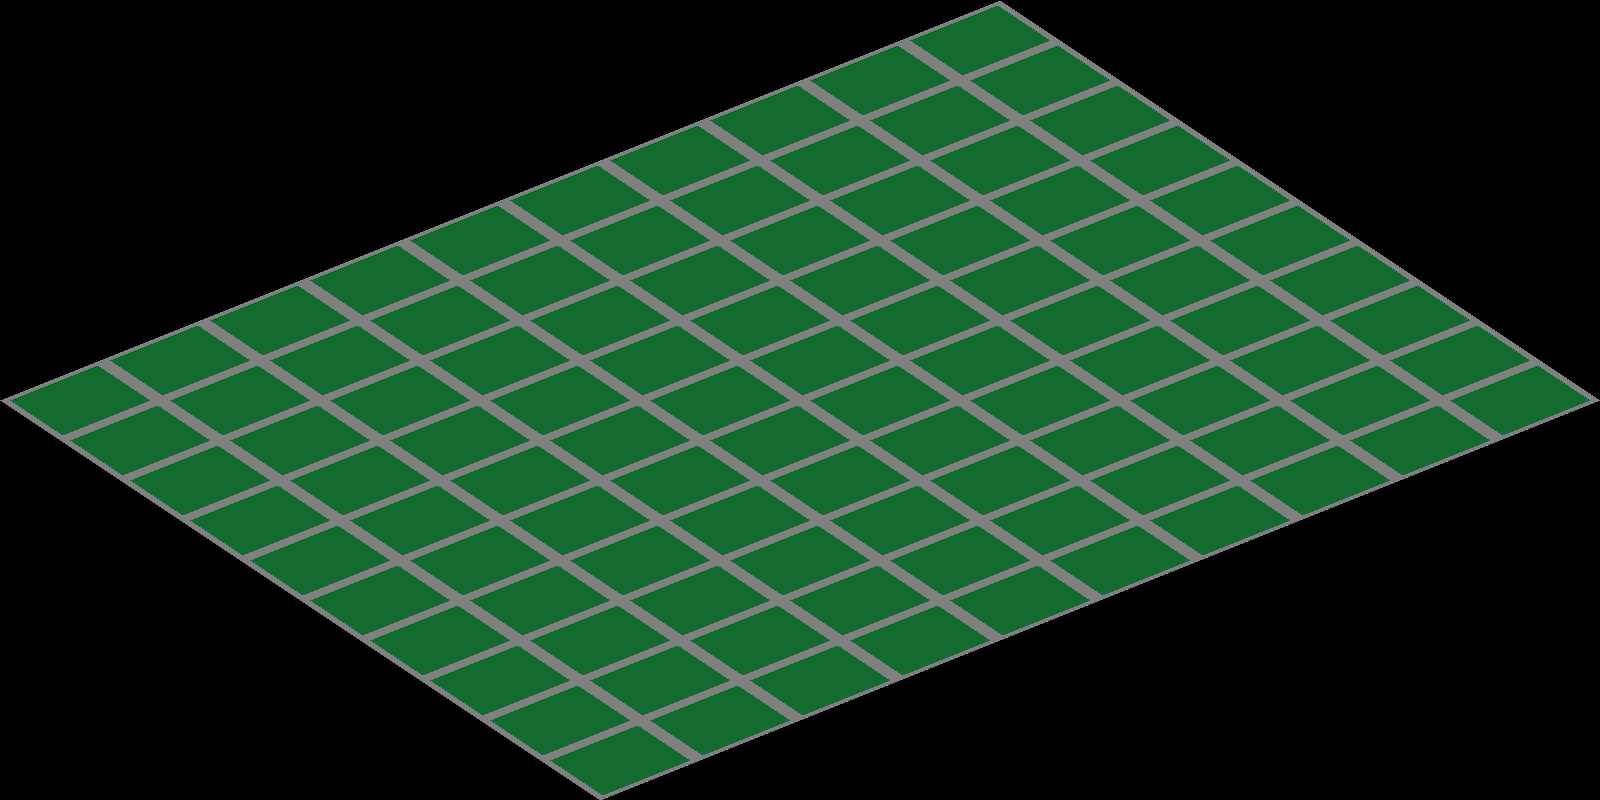
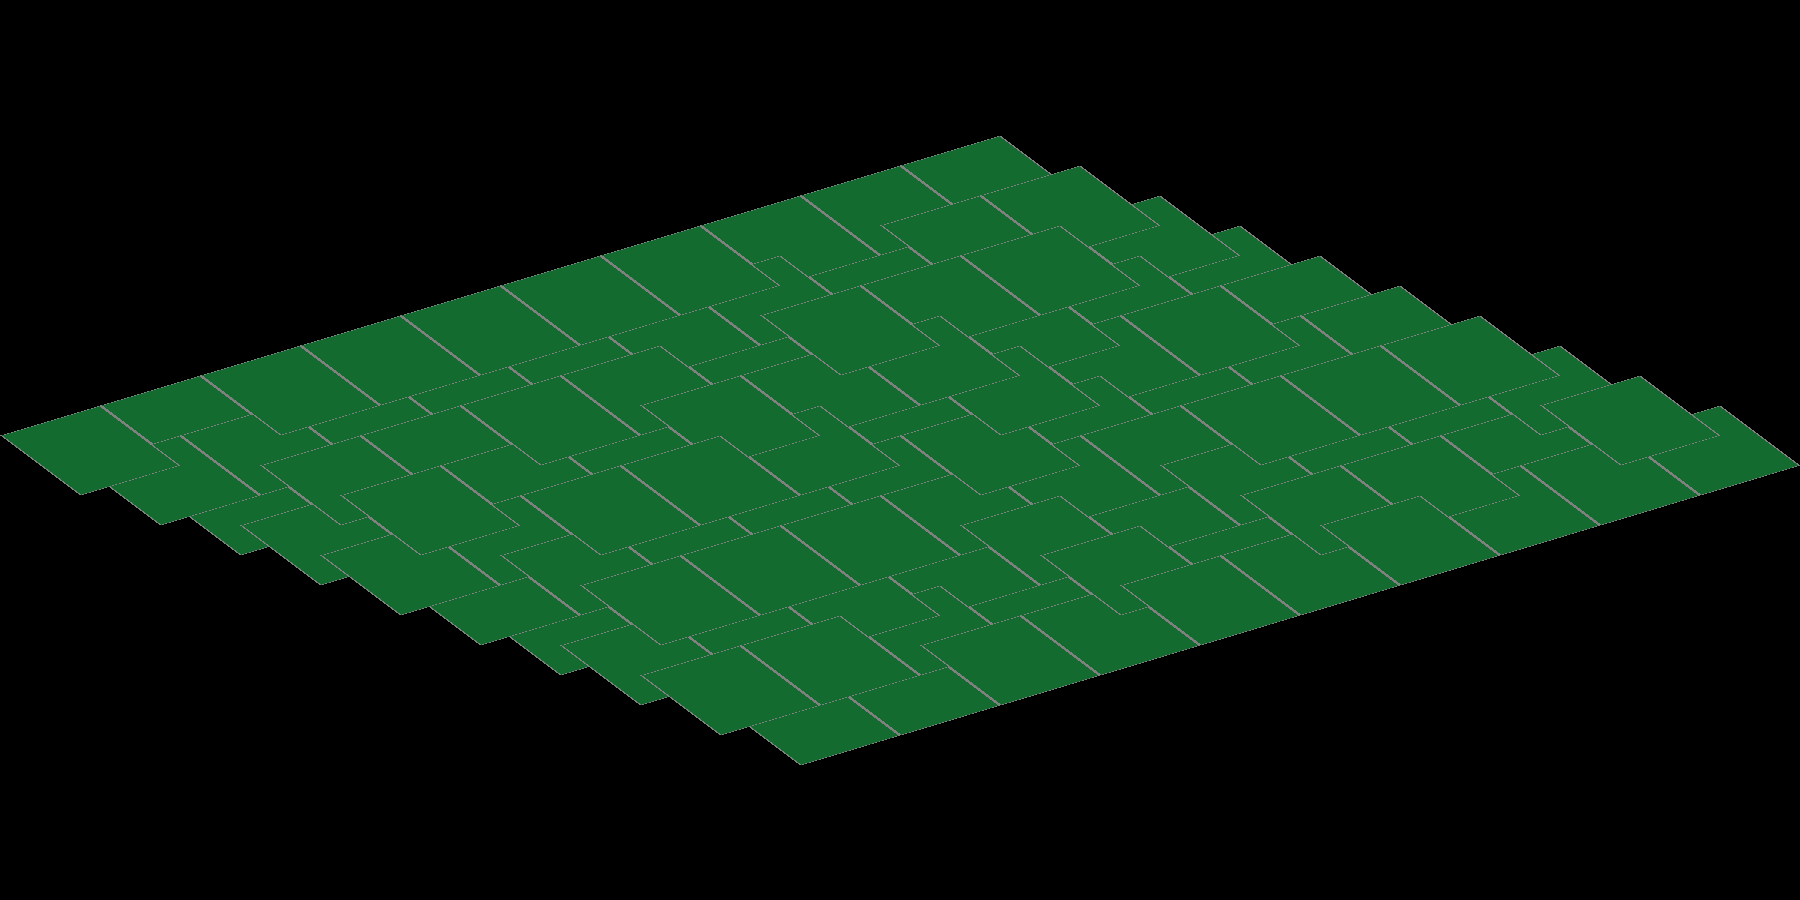
19:38 17.07.2021

Changed region(s): [[0.0312, 0.0, 0.9688, 1.0], [0.9688, 0.4688, 1.0, 0.5312], [0.0, 0.4688, 0.0312, 0.5312]]

diff --git a/src/MapGenerator/Picture/PictureCreator.java b/src/MapGenerator/Picture/PictureCreator.java
@@ -69,21 +69,27 @@ public class PictureCreator {
 
         Graphics2D graphics2D = (Graphics2D) mapPicture.getGraphics();
 
-        int x = image.getX() * mapData.getSizeUnitW()*5 + image.getY()*mapData.getSizeUnitW()*3;
-        int y = mapPicture.getHeight()/2 + image.getY() * mapData.getSizeUnitH()*2 - image.getX()*mapData.getSizeUnitH()*2 - addedImage.getHeight(null)/2;
+//        int x = (int) (image.getX() * mapData.getSizeUnitW()*(mapData.getCellW()/2 + Configurations.curvatureX) + image.getY()*mapData.getSizeUnitW()*(mapData.getCellW()/2 - Configurations.curvatureX));
+//        int y = mapPicture.getHeight()/2 + image.getY() * mapData.getSizeUnitH()*3 - image.getX()*mapData.getSizeUnitH()*3 - addedImage.getHeight(null)/2;
+
+
         graphics2D.drawImage(addedImage, x, y, null);
     }
 
     private BufferedImage createCellShape(BufferedImage addedPicture, MapData mapData){
         java.awt.Image image = null;
-        if(Configurations.mapFormatX/Configurations.mapFormatY == 2) {
 
-            if(Configurations.drawBorders){
-                createBorders(addedPicture, mapData);
-            }
-
-            createMaskZones(addedPicture, mapData);
+        if(Configurations.drawBorders){
+            createBorders(addedPicture, mapData);
         }
+
+        createMaskZones(addedPicture, mapData);
+
+//        try {
+//            ImageIO.write(addedPicture, "png", new File("ggg.png"));
+//        } catch (IOException e) {
+//            e.printStackTrace();
+//        }
 
         return addedPicture;
     }
@@ -93,14 +99,14 @@ public class PictureCreator {
 
         graphics2D.setColor(Configurations.bordersColor);
 
-        graphics2D.fill(new Polygon(new int[]{0, mapData.getPixSizeCellW()/Configurations.mapFormatX*5, mapData.getPixSizeCellW()/Configurations.mapFormatX*5 + Configurations.borderSize, 0 + Configurations.borderSize},
-                new int[]{addedPicture.getHeight() / 2 , 0, 0, addedPicture.getHeight() / 2}, 4));
-        graphics2D.fill(new Polygon(new int[]{0, mapData.getPixSizeCellW()/Configurations.mapFormatX*3, mapData.getPixSizeCellW()/Configurations.mapFormatX*3 + Configurations.borderSize, 0 + Configurations.borderSize},
-                new int[]{addedPicture.getHeight() / 2 , addedPicture.getHeight(), addedPicture.getHeight(), addedPicture.getHeight() / 2}, 4));
-        graphics2D.fill(new Polygon(new int[]{mapData.getPixSizeCellW()/Configurations.mapFormatX*5 - Configurations.borderSize, mapData.getPixSizeCellW()/Configurations.mapFormatX*5, addedPicture.getWidth(), addedPicture.getWidth()-Configurations.borderSize},
-                new int[]{0 , 0, addedPicture.getHeight()/2, addedPicture.getHeight() / 2}, 4));
-        graphics2D.fill(new Polygon(new int[]{mapData.getPixSizeCellW()/Configurations.mapFormatX*3 - Configurations.borderSize, mapData.getPixSizeCellW()/Configurations.mapFormatX*3, addedPicture.getWidth(), addedPicture.getWidth()-Configurations.borderSize},
-                new int[]{addedPicture.getHeight() , addedPicture.getHeight(), addedPicture.getHeight()/2, addedPicture.getHeight() / 2}, 4));
+        graphics2D.fill(new Polygon(new int[]{0, (int) (mapData.getPixSizeCellW()/Configurations.mapFormatX*(mapData.getCellW()/2.0+Configurations.curvatureX)), (int) (mapData.getPixSizeCellW()/Configurations.mapFormatX*(mapData.getCellW()/2.0+Configurations.curvatureX) + Configurations.borderSize), Configurations.borderSize},
+                new int[]{addedPicture.getHeight() / mapData.getCellH() * (int)(mapData.getCellH()/2.0-Configurations.curvatureY) , 0, 0, addedPicture.getHeight() / mapData.getCellH() * (int)(mapData.getCellH()/2.0-Configurations.curvatureY) }, 4));
+        graphics2D.fill(new Polygon(new int[]{0, (int) (mapData.getPixSizeCellW()/Configurations.mapFormatX*(mapData.getCellW()/2.0 - Configurations.curvatureX)), (int) (mapData.getPixSizeCellW()/Configurations.mapFormatX*(mapData.getCellW()/2.0 - Configurations.curvatureX) + Configurations.borderSize), Configurations.borderSize},
+                new int[]{addedPicture.getHeight() / mapData.getCellH() * (int)(mapData.getCellH()/2.0-Configurations.curvatureY) , addedPicture.getHeight(), addedPicture.getHeight(), addedPicture.getHeight() / mapData.getCellH() * (int)(mapData.getCellH()/2.0-Configurations.curvatureY)}, 4));
+        graphics2D.fill(new Polygon(new int[]{(int) (mapData.getPixSizeCellW()/Configurations.mapFormatX*(mapData.getCellW()/2.0+Configurations.curvatureX)) -Configurations.borderSize, (int) (mapData.getPixSizeCellW()/Configurations.mapFormatX*(mapData.getCellW()/2.0+Configurations.curvatureX)), addedPicture.getWidth(), addedPicture.getWidth()-Configurations.borderSize},
+                new int[]{0 , 0, addedPicture.getHeight() / mapData.getCellH() * (int)(mapData.getCellH()/2.0+Configurations.curvatureY) , addedPicture.getHeight() / mapData.getCellH() * (int)(mapData.getCellH()/2.0+Configurations.curvatureY) }, 4));
+        graphics2D.fill(new Polygon(new int[]{(int) (mapData.getPixSizeCellW()/Configurations.mapFormatX*(mapData.getCellW()/2.0 - Configurations.curvatureX)) - Configurations.borderSize, (int) (mapData.getPixSizeCellW()/Configurations.mapFormatX*(mapData.getCellW()/2.0 - Configurations.curvatureX)), addedPicture.getWidth(), addedPicture.getWidth()-Configurations.borderSize},
+                new int[]{addedPicture.getHeight() , addedPicture.getHeight(), addedPicture.getHeight() / mapData.getCellH() * (int)(mapData.getCellH()/2.0+Configurations.curvatureY), addedPicture.getHeight() / mapData.getCellH() * (int)(mapData.getCellH()/2.0+Configurations.curvatureY)}, 4));
         
     }
 
@@ -108,17 +114,17 @@ public class PictureCreator {
         Graphics2D graphics2D = (Graphics2D) addedPicture.getGraphics();
 
         graphics2D.setColor(Configurations.maskColor);
-        Shape shape = new Polygon(new int[]{0, 0, mapData.getPixSizeCellW()/Configurations.mapFormatX*5},
-                new int[]{0, addedPicture.getHeight() / 2, 0}, 3);
+        Shape shape = new Polygon(new int[]{0, 0, (int) (mapData.getPixSizeCellW()/Configurations.mapFormatX*(mapData.getCellW()/2.0+Configurations.curvatureX))},
+                new int[]{0, addedPicture.getHeight() / mapData.getCellH() * (int)(mapData.getCellH()/2.0-Configurations.curvatureY), 0}, 3);
         graphics2D.fill(shape);
-        shape = new Polygon(new int[]{0, 0, mapData.getPixSizeCellW()/Configurations.mapFormatX*3},
-                new int[]{addedPicture.getHeight(), addedPicture.getHeight() / 2, addedPicture.getHeight()}, 3);
+        shape = new Polygon(new int[]{0, 0, (int) (mapData.getPixSizeCellW()/Configurations.mapFormatX*(mapData.getCellW()/2.0 - Configurations.curvatureX))},
+                new int[]{addedPicture.getHeight(), addedPicture.getHeight() / mapData.getCellH() * (int)(mapData.getCellH()/2.0-Configurations.curvatureY), addedPicture.getHeight()}, 3);
         graphics2D.fill(shape);
-        shape = new Polygon(new int[]{addedPicture.getWidth(), addedPicture.getWidth(), mapData.getPixSizeCellW()/Configurations.mapFormatX*5},
-                new int[]{0, addedPicture.getHeight() / 2, 0}, 3);
+        shape = new Polygon(new int[]{addedPicture.getWidth(), addedPicture.getWidth(), (int) (mapData.getPixSizeCellW()/Configurations.mapFormatX*(mapData.getCellW()/2.0+Configurations.curvatureX))},
+                new int[]{0, addedPicture.getHeight() / mapData.getCellH() * (int)(mapData.getCellH()/2.0+Configurations.curvatureY), 0}, 3);
         graphics2D.fill(shape);
-        shape = new Polygon(new int[]{addedPicture.getWidth(), addedPicture.getWidth(), mapData.getPixSizeCellW()/Configurations.mapFormatX*3},
-                new int[]{addedPicture.getHeight(), addedPicture.getHeight() / 2, addedPicture.getHeight()}, 3);
+        shape = new Polygon(new int[]{addedPicture.getWidth(), addedPicture.getWidth(), (int) (mapData.getPixSizeCellW()/Configurations.mapFormatX*(mapData.getCellW()/2.0 - Configurations.curvatureX))},
+                new int[]{addedPicture.getHeight(), addedPicture.getHeight() / mapData.getCellH() * (int)(mapData.getCellH()/2.0+Configurations.curvatureY), addedPicture.getHeight()}, 3);
         graphics2D.fill(shape);
     }
 

diff --git a/src/MapGenerator/Configurations.java b/src/MapGenerator/Configurations.java
@@ -14,12 +14,13 @@ public class Configurations {
 
     public static boolean drawBorders = true;
     public static Color bordersColor = Color.GRAY;
-    public static int borderSize = 10;
+    public static int borderSize = 2;
 
-    public static int mapFormatX = 8;
-    public static int mapFormatY = 4;
+    public static int mapFormatX = 18;
+    public static int mapFormatY = 9;
 
-    public static int curvatureX = 1;   //съезд относительно ровного ромба в сторону
+    public static float curvatureX = 1.0f;        //съезд относительно ровного ромба в сторону
+    public static float curvatureY = 1.5f;   //съезд относительно ровного ромба в сторону
 
     public static Color maskColor = Color.WHITE;
 }

diff --git a/src/MapGenerator/MapAnalysis/MapData.java b/src/MapGenerator/MapAnalysis/MapData.java
@@ -17,6 +17,9 @@ public class MapData {
     private int pixSizeCellW = 0;  //размер одной клетки на карте в pix
     private int pixSizeCellH = 0;
 
+    private int cellW = 0;  //размер одной клетки в unit
+    private int cellH = 0;
+
     private boolean needFinishResize = false;
 
     public void setZSize(int zSize) {
@@ -94,5 +97,21 @@ public class MapData {
 
     public int getPixSizeCellW() {
         return pixSizeCellW;
+    }
+
+    public void setCellH(int cellH) {
+        this.cellH = cellH;
+    }
+
+    public void setCellW(int cellW) {
+        this.cellW = cellW;
+    }
+
+    public int getCellH() {
+        return cellH;
+    }
+
+    public int getCellW() {
+        return cellW;
     }
 }

diff --git a/src/MapGenerator/MapAnalysis/MapAnalyzer.java b/src/MapGenerator/MapAnalysis/MapAnalyzer.java
@@ -26,6 +26,9 @@ public class MapAnalyzer {
         outMapData.setSizeUnitW(pixSizeX/(meshSizeX*Configurations.mapFormatX));
         outMapData.setSizeUnitH(pixSizeY/(mashSizeY*Configurations.mapFormatY));
 
+        outMapData.setCellW(pixSizeX/(meshSizeX*outMapData.getSizeUnitW()));
+        outMapData.setCellH(pixSizeY/(mashSizeY*outMapData.getSizeUnitH()));
+
         outMapData.createPixSizeCell();
 
     }

diff --git a/src/MapGenerator/MapGenerator.java b/src/MapGenerator/MapGenerator.java
@@ -37,7 +37,7 @@ public class MapGenerator {
         }
 
         MapGenerator mapGenerator = new MapGenerator();
-        mapGenerator.generateMap(jSONString, 1600, 800);
+        mapGenerator.generateMap(jSONString, 1800, 900);
     }
 
     public void generateMap(String jSON, int pixSizeX, int pixSizeY){
